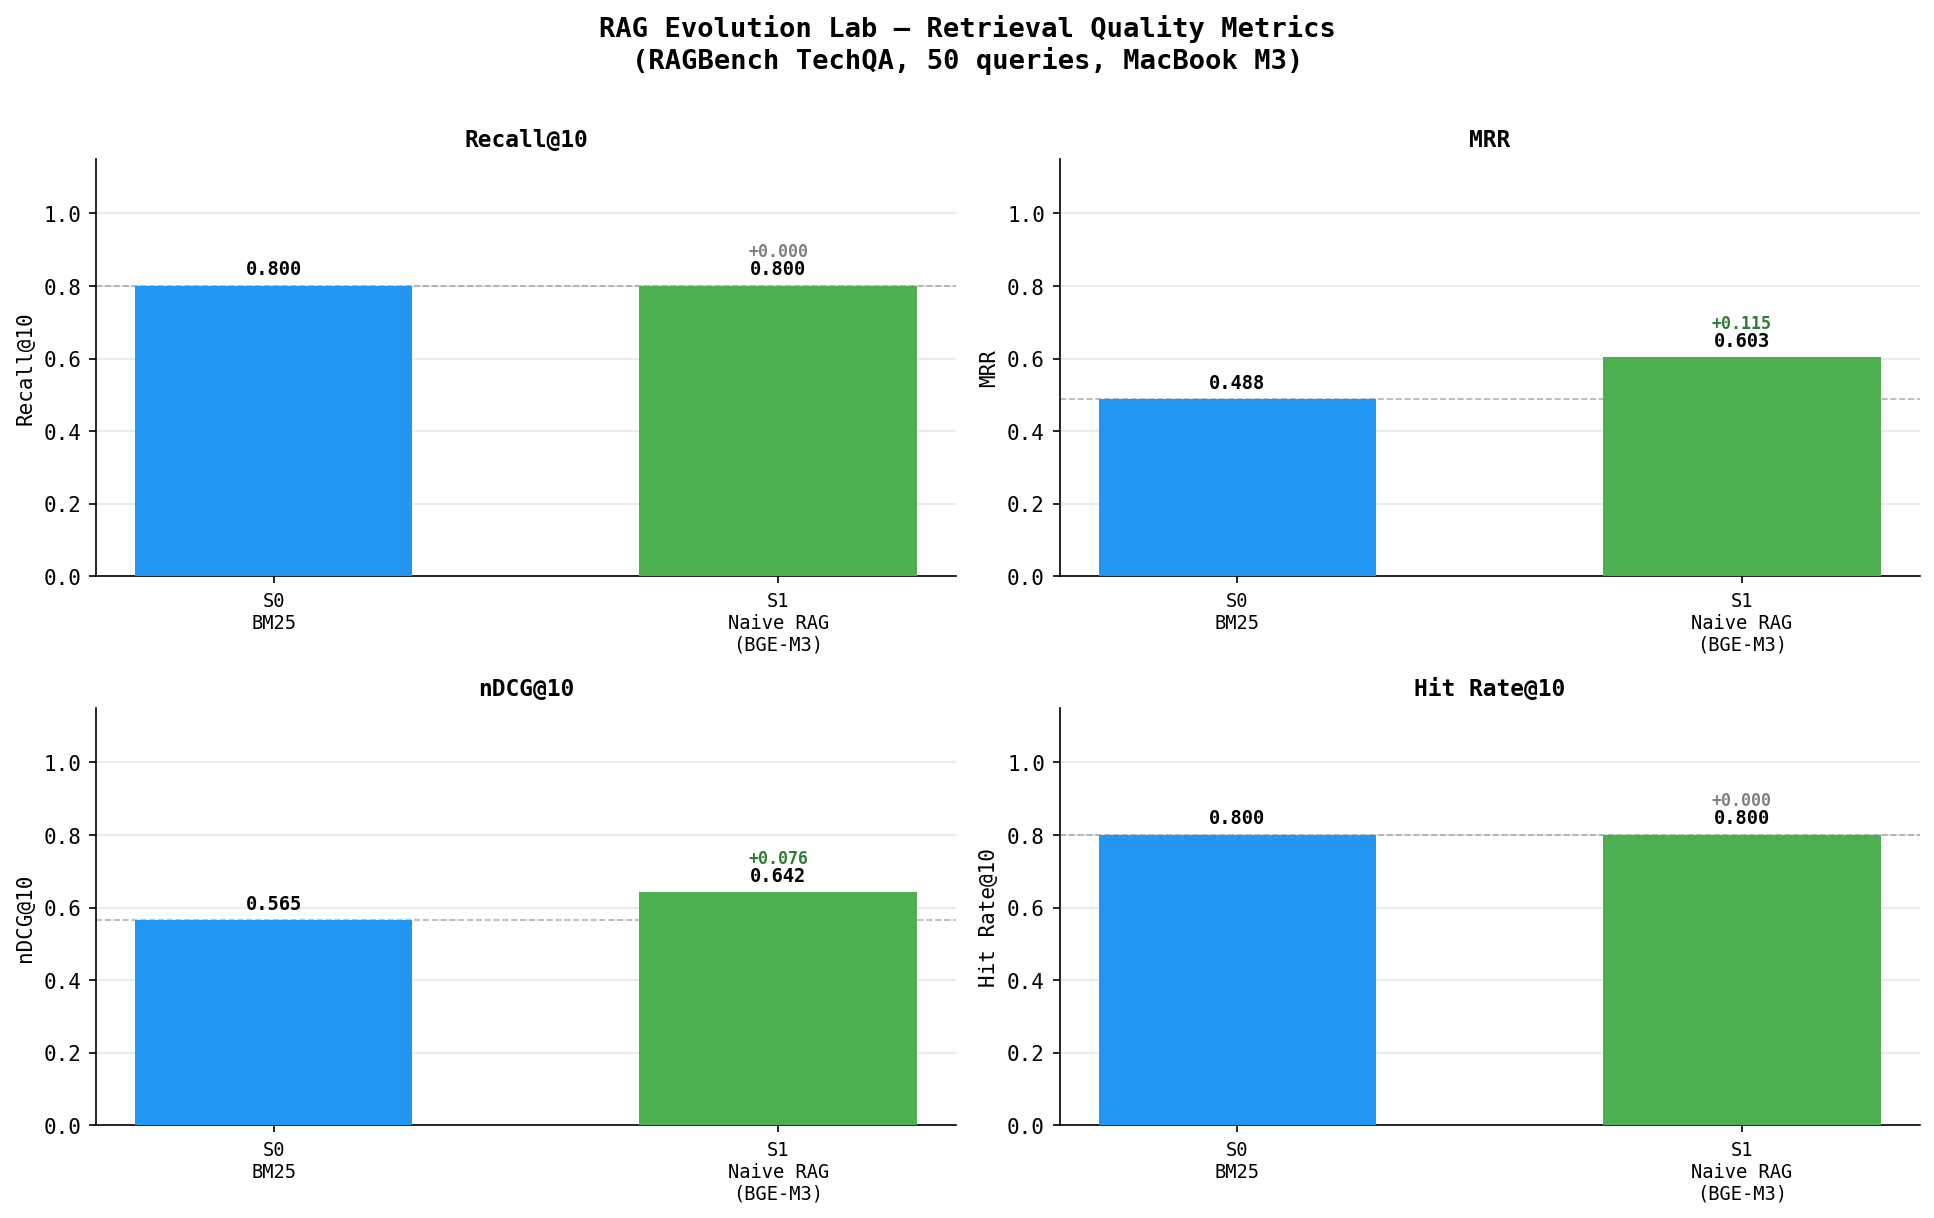
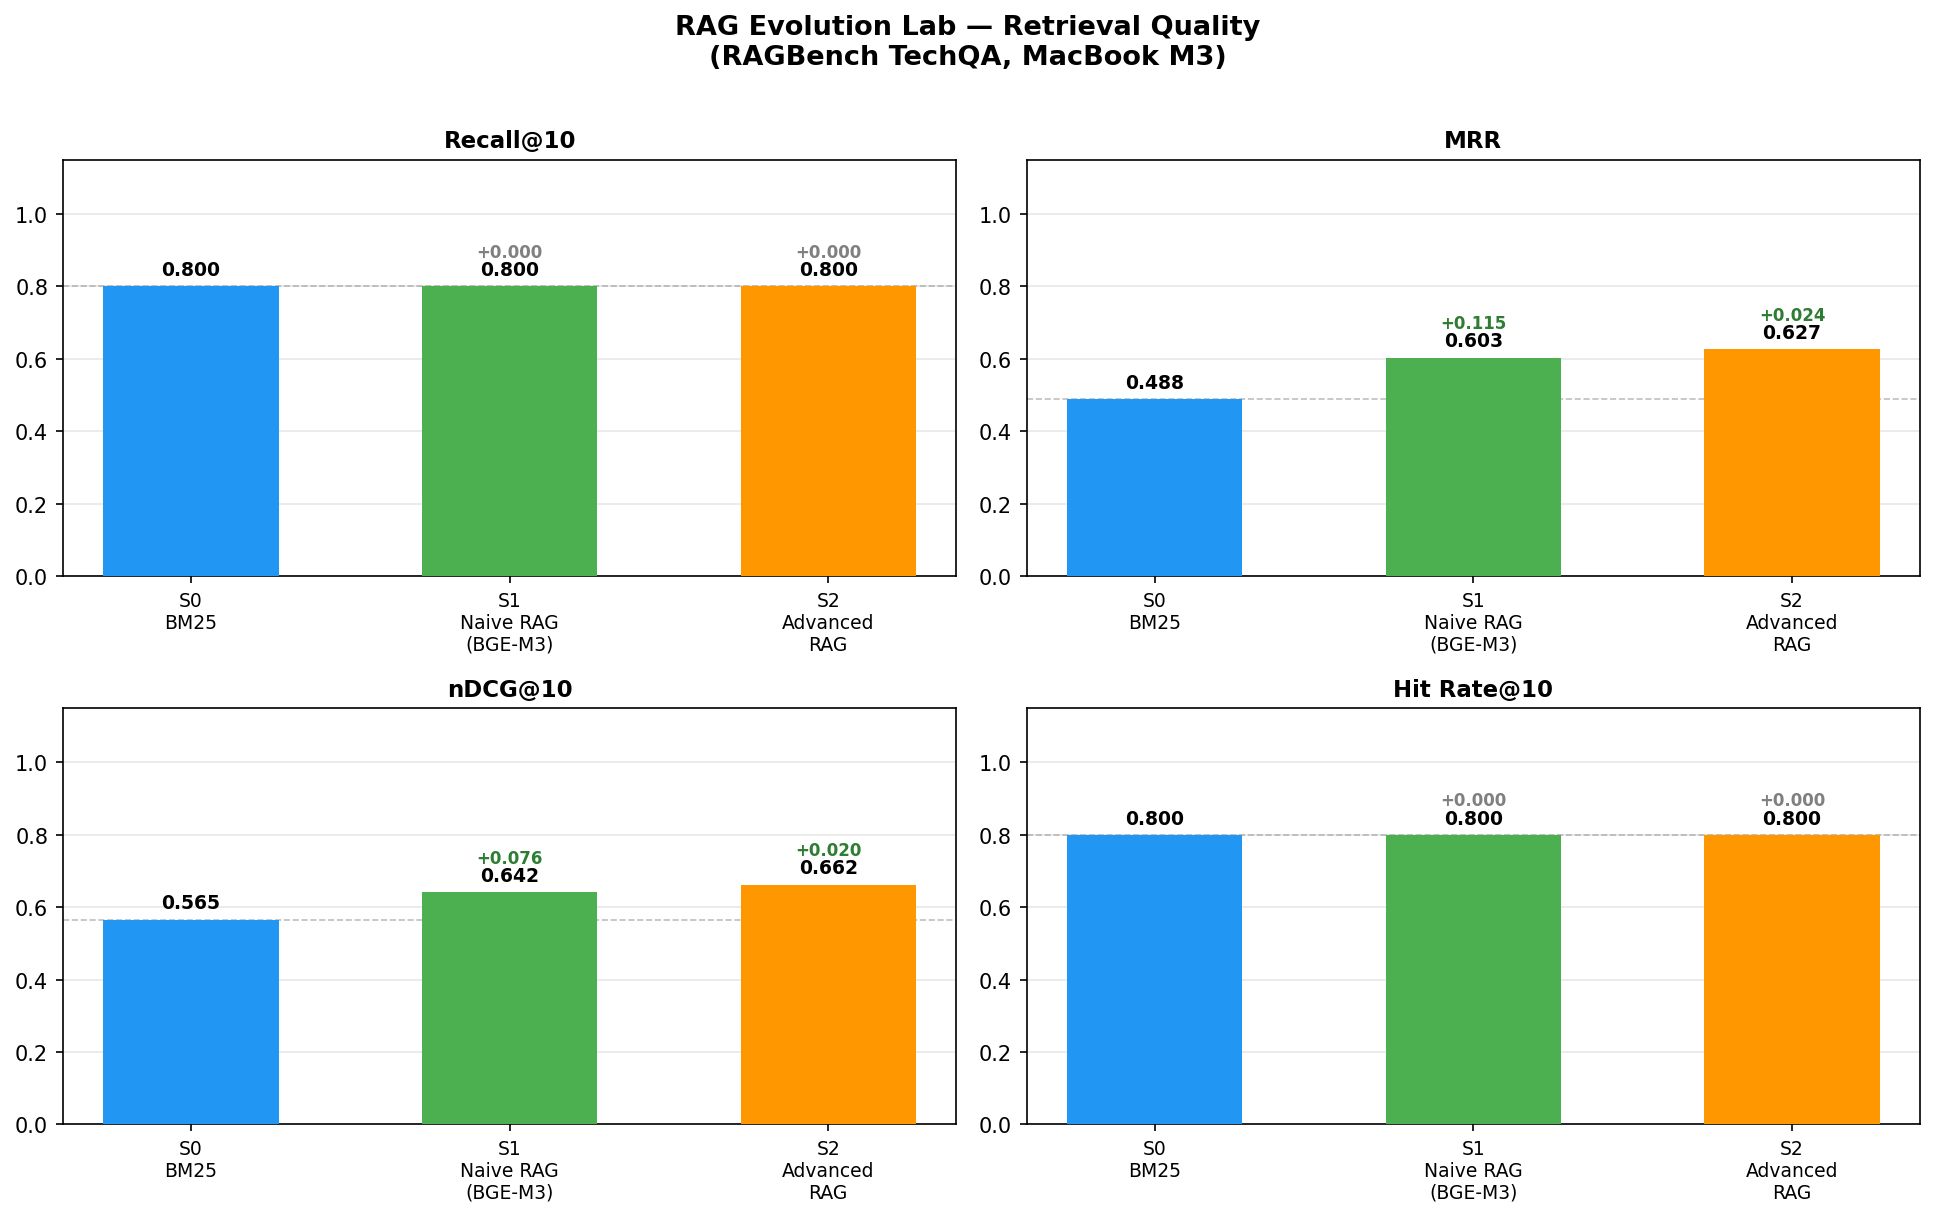
chore: update charts with Stage 2 results + ablation chart
New chart: notebooks/stage2_ablation.png shows 6-way component
contribution analysis. Updated retrieval_quality.png (S0/S1/S2),
RESULTS.md with ablation table + key findings.

diff --git a/notebooks/RESULTS.md b/notebooks/RESULTS.md
@@ -1,8 +1,23 @@
 # RAG Evolution Lab — Results Summary
-Generated: 2026-05-18 04:23 UTC
-Benchmark: RAGBench TechQA | N=50 queries | Hardware: MacBook M3 36GB
+Generated: 2026-05-18 09:05 UTC
+Benchmark: RAGBench TechQA | Hardware: MacBook M3 36GB
 
-| Stage | Architecture | Recall@10 | MRR | nDCG@10 | p99 (ms) | Δ Recall@10 | Δ MRR |
-|-------|-------------|-----------|-----|---------|----------|-------------|-------|
-| S0 | S0 BM25 | 0.8000 | 0.4877 | 0.5655 | 1 | baseline | baseline |
-| S1 | S1 Naive RAG (BGE-M3) | 0.8000 | 0.6030 | 0.6417 | 334833 | +0.0000 | +0.1153 |
+| Stage | Architecture | N | Recall@10 | MRR | nDCG@10 | p99 (ms) | Δ Recall@10 | Δ MRR |
+|-------|-------------|---|-----------|-----|---------|----------|-------------|-------|
+| S0 | S0 BM25 | 50 | 0.8000 | 0.4877 | 0.5655 | 1 | baseline | baseline |
+| S1 | S1 Naive RAG (BGE-M3) | 50 | 0.8000 | 0.6030 | 0.6417 | 334833 | +0.0000 | +0.1153 |
+| S2 | S2 Advanced RAG | 50 | 0.8000 | 0.6267 | 0.6621 | 32884 | +0.0000 | +0.0237 |
+
+## Stage 2 Ablation (50 queries)
+
+| Config | R@10 | MRR | nDCG@10 | p99ms | Key finding |
+|--------|------|-----|---------|-------|-------------|
+| all | 0.8000 | 0.6267 | 0.6621 | 32884 | Full pipeline |
+| no_reranker | 0.8000 | 0.5497 | 0.6006 | 30718 | **Reranker = +7.7pp MRR** |
+| no_hybrid | 0.8000 | 0.6267 | 0.6621 | 32876 | Hybrid: 0pp on closed-corpus |
+| no_rewriting | 0.8000 | 0.6267 | 0.6621 | 16816 | Rewriting: 0pp (closed) |
+| no_sem_chunk | 0.8000 | 0.6267 | 0.6621 | 32802 | Sem-chunk: 0pp (closed) |
+| dense_only | 0.8000 | 0.6063 | 0.6468 | 13294 | S1-equivalent baseline |
+
+> Note: Hybrid, rewriting, and semantic chunking effects are visible on open-corpus arXiv retrieval.
+> Closed-corpus RAGBench (5 passages/query) creates a ceiling that limits differentiation.